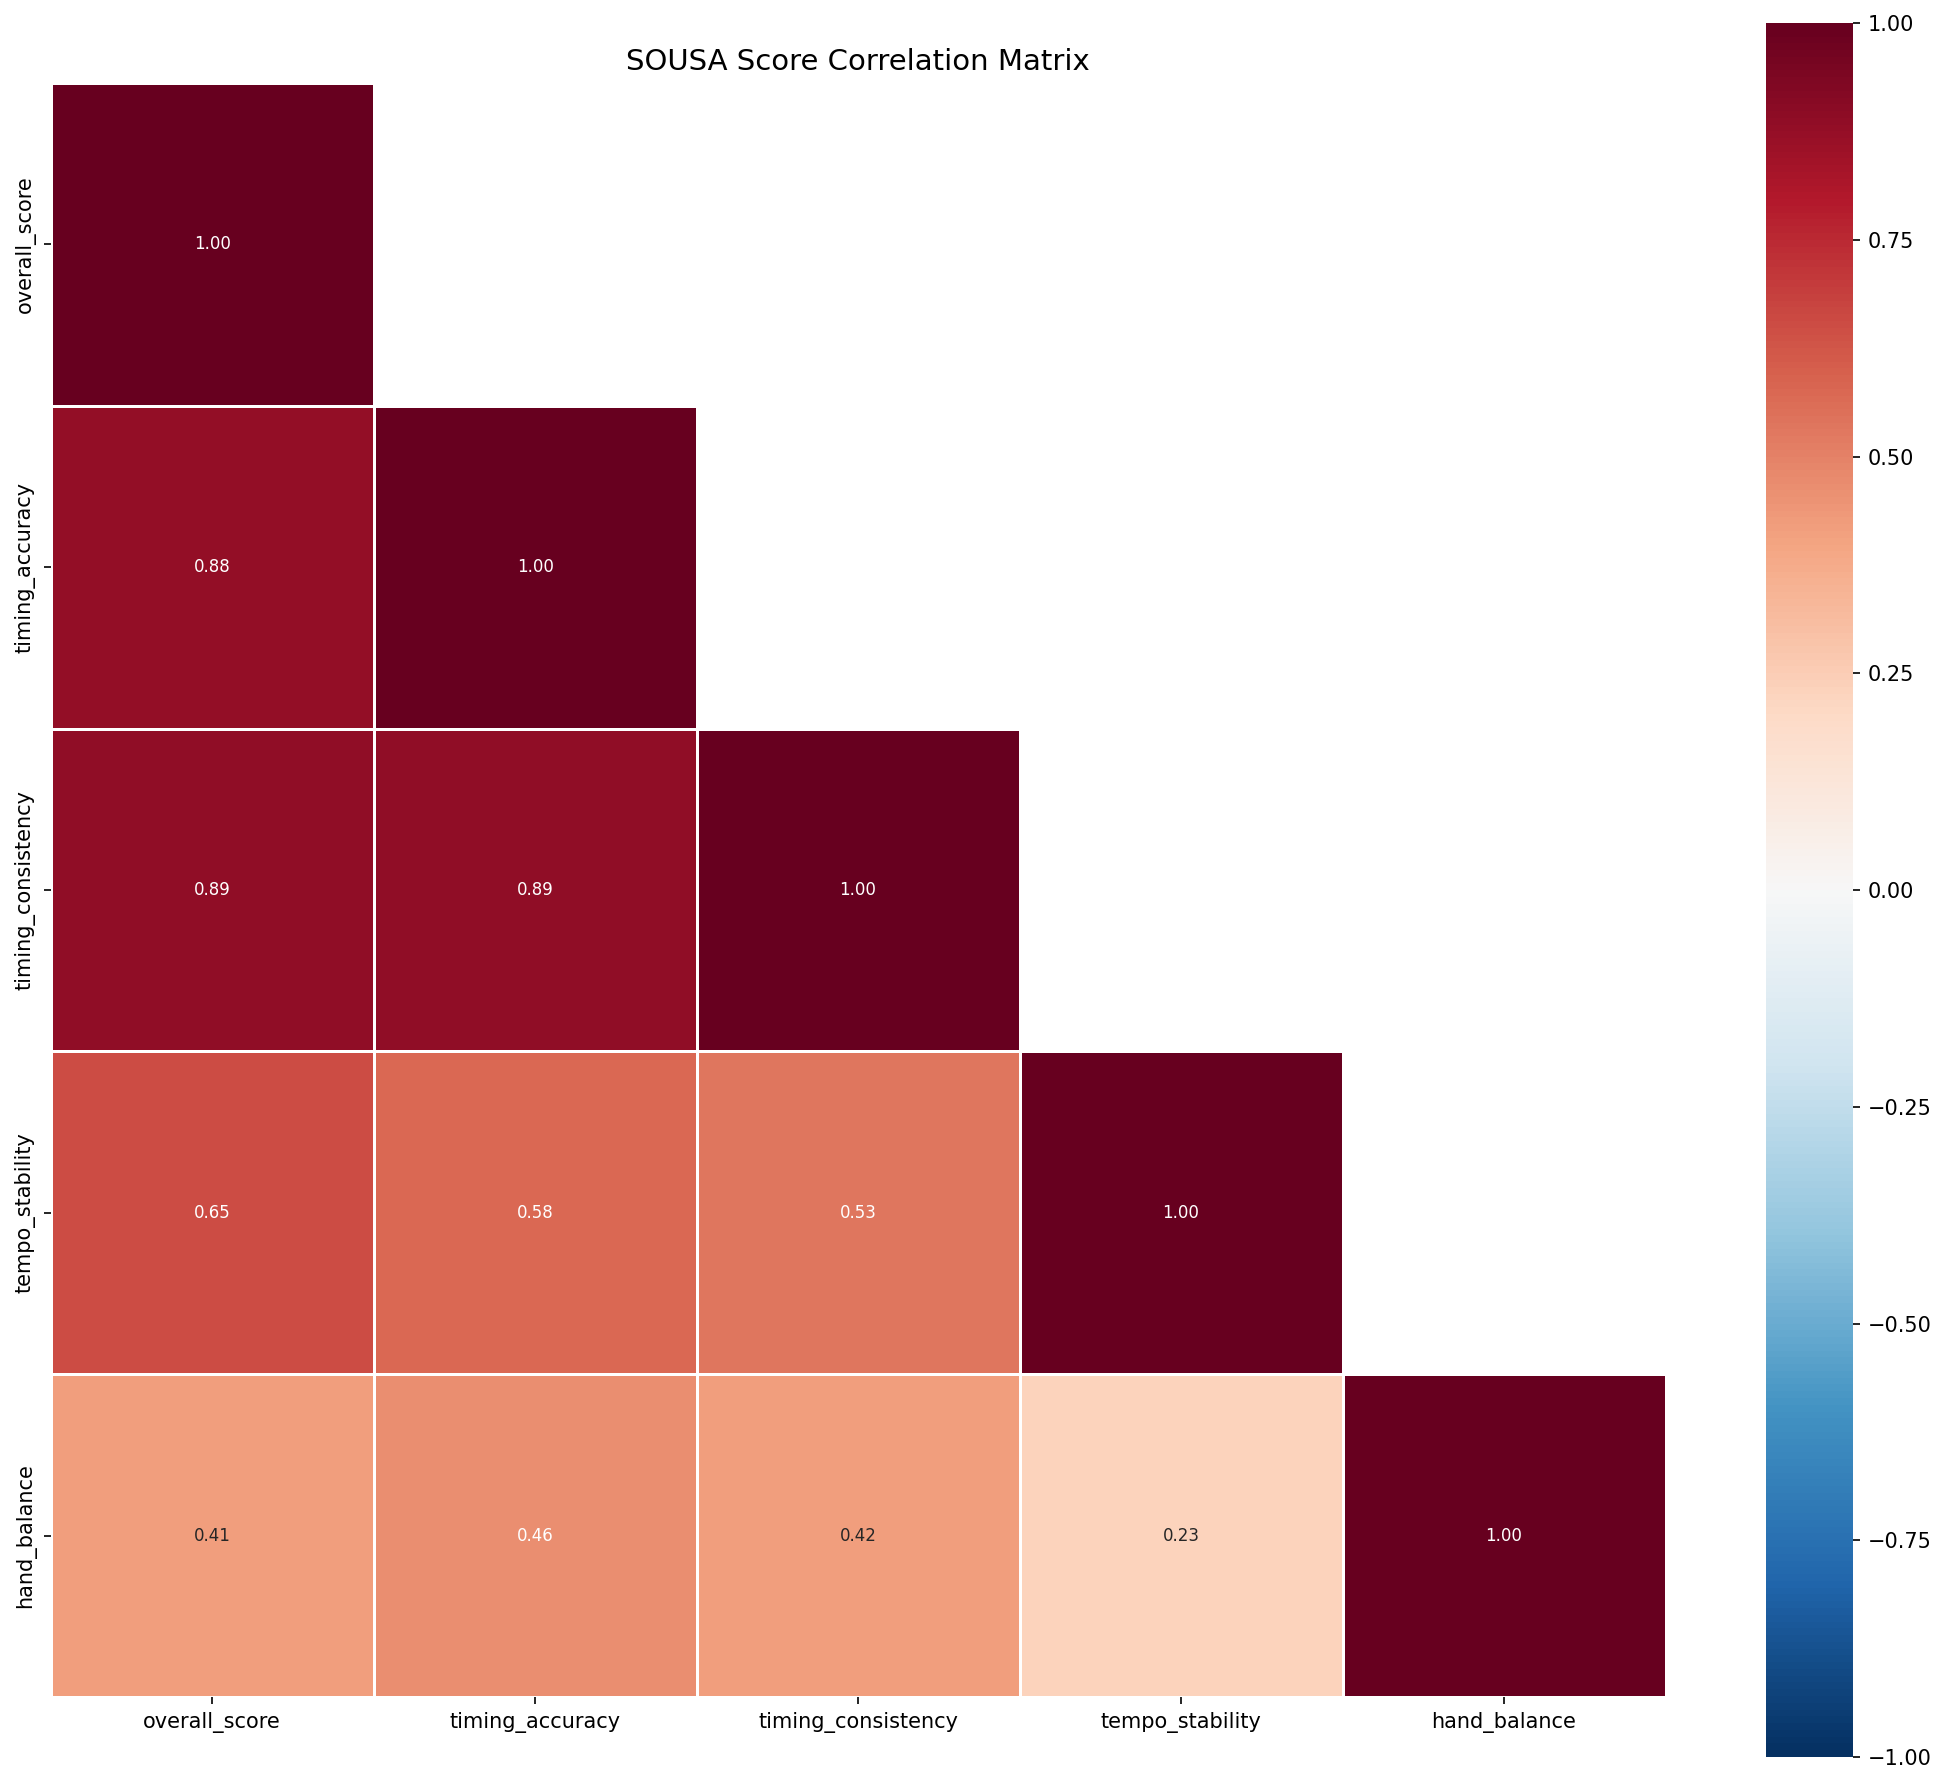
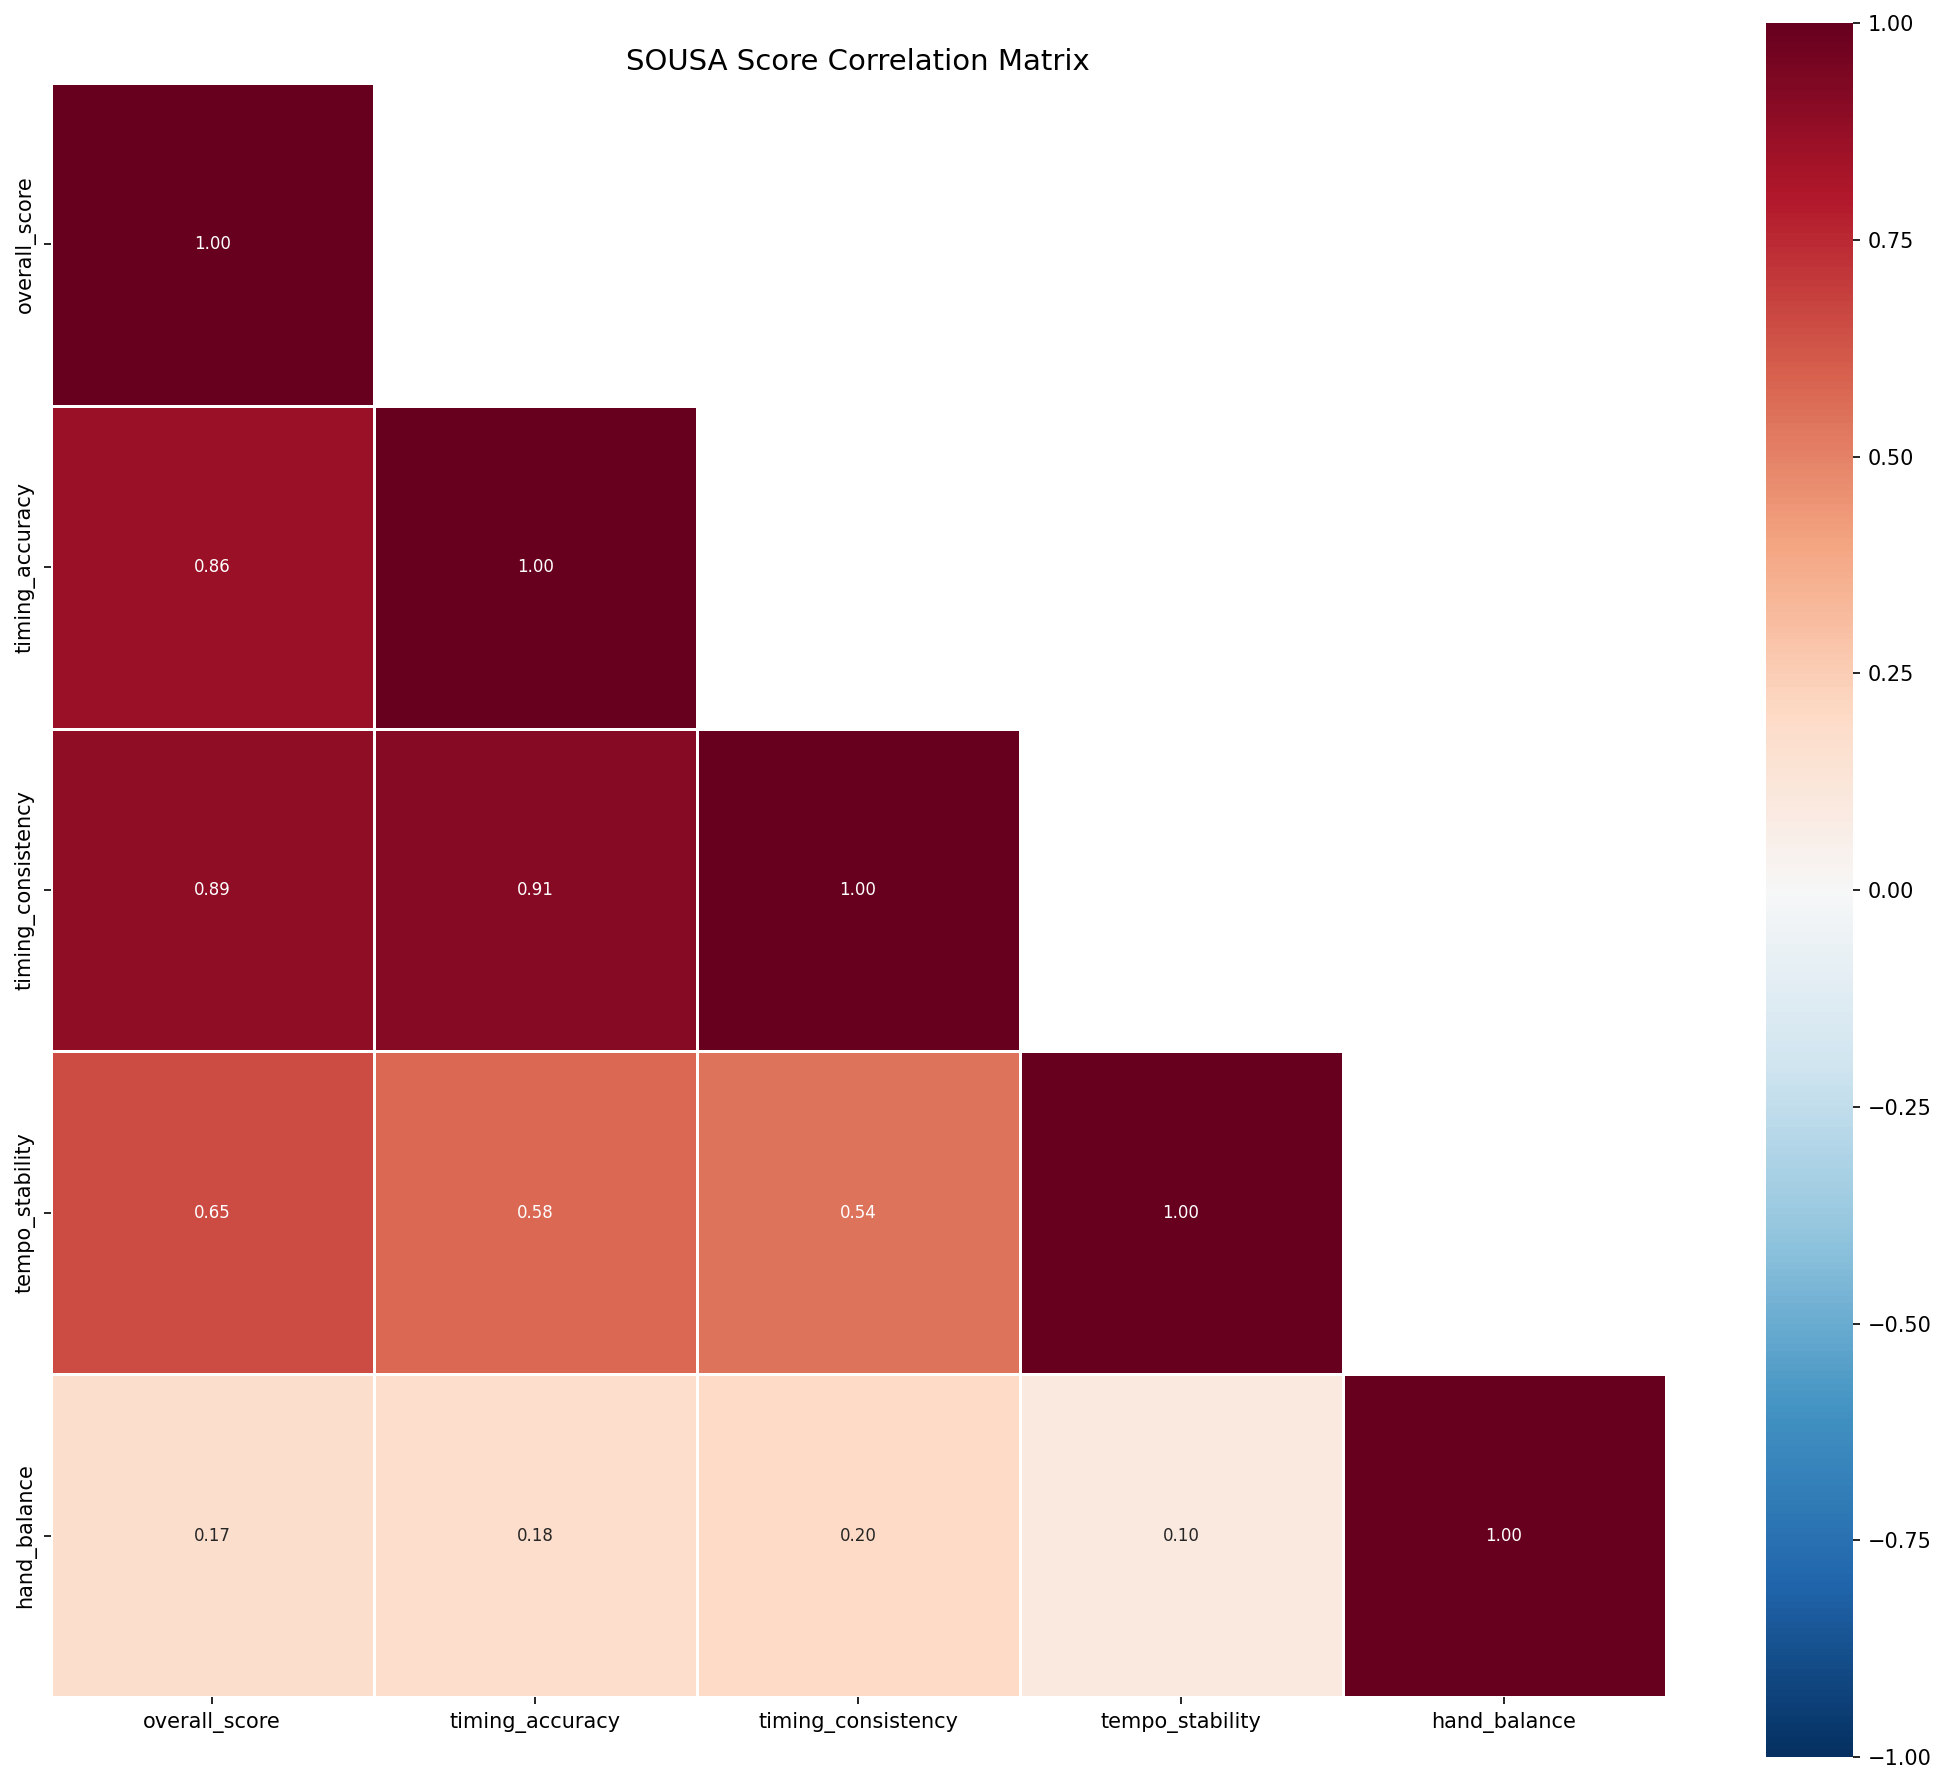
Usage update

Changed region(s): [[0.0, 0.7707, 0.7091, 0.9557]]

diff --git a/docs/USAGE.md b/docs/USAGE.md
@@ -143,6 +143,100 @@ slow = dataset["train"].filter(lambda x: x["tempo_bpm"] < 90)
 fast = dataset["train"].filter(lambda x: x["tempo_bpm"] > 140)
 ```
 
+## ML Task Recommendations
+
+Before training, review these task-specific recommendations based on dataset characteristics. See [LIMITATIONS.md](LIMITATIONS.md) for detailed rationale.
+
+### Skill Classification
+
+**Problem:** Adjacent skill tiers have 67-83% score overlap, creating an inherent accuracy ceiling (~70-80%).
+
+**Recommended approaches:**
+
+```python
+# Option 1: Use 2-class binary labels (less overlap)
+dataset = dataset.filter(lambda x: True)  # No filter needed
+label = sample["skill_tier_binary"]  # "novice" or "skilled"
+
+# Option 2: Filter by tier confidence (cleaner 4-class labels)
+dataset = dataset.filter(lambda x: x["tier_confidence"] > 0.5)
+label = sample["skill_tier"]  # "beginner", "intermediate", "advanced", "professional"
+```
+
+**Always use class weights** to handle 4.26:1 class imbalance:
+```python
+from collections import Counter
+import torch
+
+# Compute inverse frequency weights
+labels = [sample["skill_tier"] for sample in dataset]
+counts = Counter(labels)
+total = sum(counts.values())
+weights = {k: total / (len(counts) * v) for k, v in counts.items()}
+class_weights = torch.tensor([weights[tier] for tier in sorted(weights.keys())])
+
+# Use in loss function
+criterion = torch.nn.CrossEntropyLoss(weight=class_weights)
+```
+
+**Report balanced accuracy**, not just accuracy:
+```python
+from sklearn.metrics import balanced_accuracy_score
+balanced_acc = balanced_accuracy_score(y_true, y_pred)
+```
+
+### Score Regression (Assessment)
+
+**Recommended target:** `overall_score`
+
+```python
+# Simple regression setup
+target = sample["overall_score"] / 100.0  # Normalize to 0-1 range
+criterion = torch.nn.MSELoss()
+```
+
+This captures the correlated cluster of timing/consistency scores in a single target.
+
+### Multi-Task Learning
+
+**Recommended minimal score set** (orthogonal targets):
+```python
+RECOMMENDED_SCORES = ["overall_score", "tempo_stability"]
+
+# Multi-task output heads
+targets = {
+    "overall_score": sample["overall_score"] / 100.0,
+    "tempo_stability": sample["tempo_stability"] / 100.0,
+}
+```
+
+**Avoid using all scores** as separate targets—`timing_accuracy`, `timing_consistency`, and `overall_score` are highly correlated (r > 0.85) and provide redundant learning signal.
+
+### Filtering by Augmentation
+
+Control acoustic domain during training:
+
+```python
+# Clean samples only (no augmentation)
+clean = dataset.filter(lambda x: x["augmentation_preset"] == "none")
+
+# Specific soundfont
+marching = dataset.filter(lambda x: x["soundfont"] == "marching")
+
+# Link clean and augmented variants
+groups = dataset.group_by("augmentation_group_id")
+```
+
+### Summary Table
+
+| Task | Recommended Approach |
+|------|---------------------|
+| Skill classification (4-class) | Filter by `tier_confidence > 0.5`, use class weights, report balanced accuracy |
+| Skill classification (2-class) | Use `skill_tier_binary` field |
+| Assessment/regression | Use `overall_score` as target |
+| Multi-task | Use `["overall_score", "tempo_stability"]` |
+| Cross-soundfont generalization | Train on mixed soundfonts, evaluate per-soundfont |
+
 ## Working with Labels
 
 ### Exercise-Level Scores

diff --git a/experiments/results/experiment_summary.md b/experiments/results/experiment_summary.md
@@ -1,6 +1,6 @@
 # SOUSA Experiment Results Summary
 
-Generated: 2026-01-26T08:45:57.945223
+Generated: 2026-01-26T10:38:33.692261
 
 ## Score Correlation Analysis
 
@@ -8,8 +8,8 @@ Generated: 2026-01-26T08:45:57.945223
 - Score columns: 5
 
 **High correlations (|r| > 0.8):**
-- timing_accuracy ↔ timing_consistency: r = 0.888
-- overall_score ↔ timing_consistency: r = 0.885
-- overall_score ↔ timing_accuracy: r = 0.875
+- timing_accuracy ↔ timing_consistency: r = 0.913
+- overall_score ↔ timing_consistency: r = 0.886
+- overall_score ↔ timing_accuracy: r = 0.865
 
 **Recommended minimal score set:** ['overall_score', 'tempo_stability', 'hand_balance']
